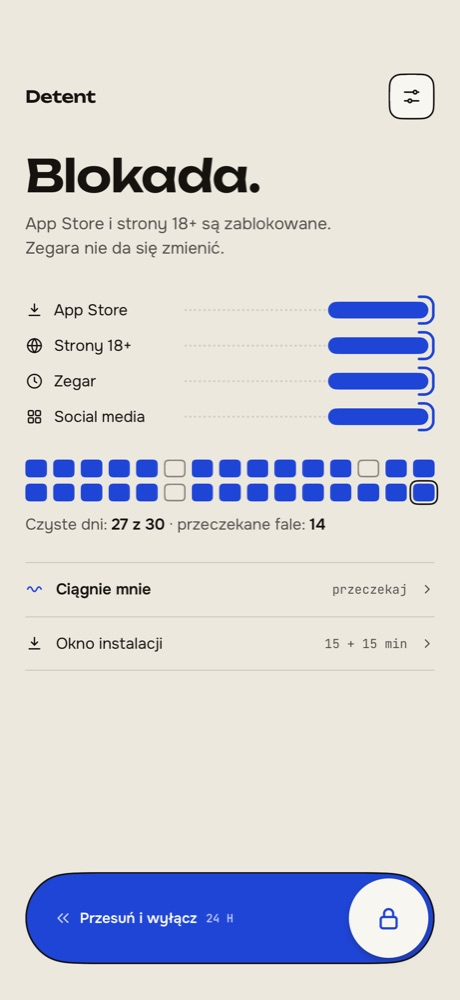
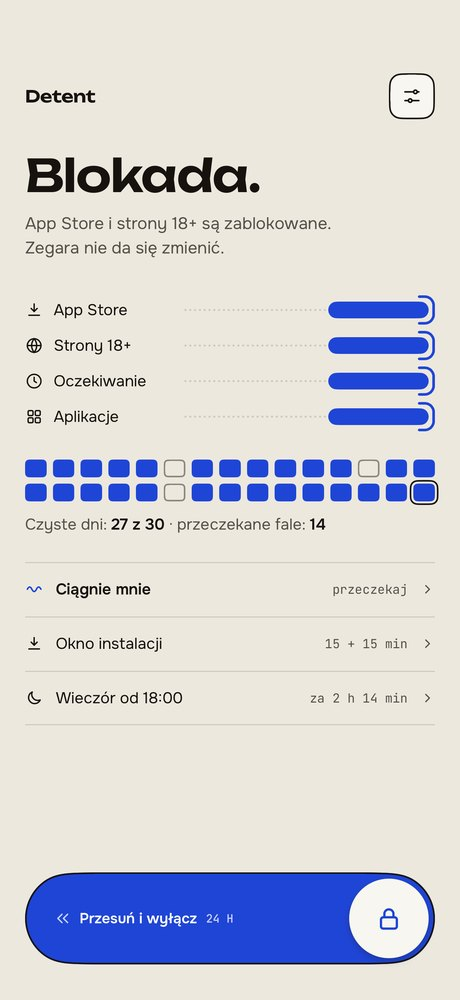
Show 2048 in place of the sliding puzzle, and the app's current screens
The urge task list and its live phone show 2048 (the home card a row of
four, the features phone the app's own board), and every screen image is
re-taken from the app as it now is: the renamed locks, the evening row,
the new turn-off and back door screens.

diff --git a/assets/detent.js b/assets/detent.js
@@ -379,20 +379,93 @@
   addEventListener("scroll", syncStory, { passive: true });
   addEventListener("resize", () => { cur = -1; syncStory(); });
 
+  /* ---------- 2048: tiles that slide together and merge, as the app draws them ----------
+     Every new tile is a 32; each doubling steps from the lowest tile's colour toward cobalt, and
+     from 1024 the number turns white. `host` holds one empty cell per square (the grid) and
+     gets the tiles; `rows` is 1 for the cards' row of four, 4 for the app's board. */
+  const SHARE = [0, .14, .28, .42, .56, .85, 1];
+  const rgb = h => [1, 3, 5].map(i => parseInt(h.slice(i, i + 2), 16));
+  const mixHex = (a, b, k) => { const A = rgb(a), B = rgb(b); return `rgb(${A.map((v, i) => Math.round(v + (B[i] - v) * k)).join(",")})`; };
+  const step2048 = v => Math.min(6, Math.max(0, Math.round(Math.log2(v / 32))));
+  function merge2048(host, o) {
+    const N = o.rows * 4, SLIDE = reduce ? 0 : 460;
+    let cells = [], moves = 0, turn = 0, busy = false;
+    const at = (el, i) => (el.style.transform = `translate(calc(${i % 4} * (100% + var(--g))), calc(${i / 4 | 0} * (100% + var(--g))))`);
+    const paint = (el, v) => { el.textContent = v; el.dataset.d = String(v).length; el.style.backgroundColor = mixHex(o.base, "#1F45D6", SHARE[step2048(v)]); el.style.color = step2048(v) >= 5 ? "#FFFFFF" : "#16130F"; };
+    const bump = (el, c) => { el.classList.remove(c); void el.offsetWidth; el.classList.add(c); };
+    const add = (v, i, born) => { const el = document.createElement("i"); paint(el, v); at(el, i); host.appendChild(el); cells[i] = { v, el }; if (born) bump(el, "born"); };
+    const highest = () => Math.max(0, ...cells.filter(Boolean).map(c => c.v));
+    const report = () => o.onMove && o.onMove(moves, highest());
+    function deal(born) {
+      $$(host, "i").forEach(el => el.remove());
+      cells = Array(N).fill(null); moves = o.moves || 0;
+      o.start.forEach((v, i) => v && add(v, i, born)); report();
+    }
+    // each line's cells, from the end the tiles slide toward
+    const across = d => d === "right" || d === "left";
+    const lines = d => [...Array(across(d) ? o.rows : 4)].map((_, k) => {
+      const l = across(d) ? [0, 1, 2, 3].map(c => k * 4 + c) : [...Array(o.rows)].map((_, r) => r * 4 + k);
+      return d === "right" || d === "down" ? l.reverse() : l;
+    });
+    // slide every tile as far as it goes; equal neighbours merge once, from the far end
+    function plan(d) {
+      const placed = [], merges = []; let moved = false;
+      lines(d).forEach(line => {
+        const out = [];
+        line.forEach(i => {
+          const c = cells[i]; if (!c) return;
+          const top = out[out.length - 1];
+          if (top && top.v === c.v && !top.m) { top.m = true; merges.push([top, c]); moved = true; return; }
+          const to = line[out.length]; if (to !== i) moved = true;
+          out.push({ v: c.v, el: c.el, m: false, to });
+        });
+        placed.push(...out);
+      });
+      return { placed, merges, moved };
+    }
+    function tick() {
+      if (busy) return;
+      const dirs = typeof o.dirs === "function" ? o.dirs(turn++) : o.dirs;
+      const p = highest() >= 2048 ? null : dirs.map(plan).find(x => x.moved);
+      busy = true;
+      if (!p) { // nothing moves: fade out and start again
+        cells.forEach(c => c && (c.el.style.opacity = 0));
+        setTimeout(() => { deal(true); busy = false; }, reduce ? 0 : 320); return;
+      }
+      p.placed.forEach(c => at(c.el, c.to));
+      p.merges.forEach(([keep, gone]) => at(gone.el, keep.to));
+      setTimeout(() => {
+        cells = Array(N).fill(null);
+        p.placed.forEach(c => (cells[c.to] = { v: c.v, el: c.el }));
+        p.merges.forEach(([keep, gone]) => { gone.el.remove(); const c = cells[keep.to]; c.v *= 2; paint(c.el, c.v); bump(c.el, "pop"); });
+        const free = cells.map((c, i) => (c ? -1 : i)).filter(i => i >= 0);
+        if (free.length) add(32, o.spawn(free), true);
+        moves++; report(); busy = false;
+      }, SLIDE);
+    }
+    deal(false);
+    return { tick, deal: () => { busy = false; deal(false); } };
+  }
+
   /* ---------- the seven tasks ---------- */
-  const TASKS = [["Breathe", "2 min"], ["Phone down", "3 min"], ["Follow the dot", "2 min"], ["Walk", "200 steps"], ["Puzzle", "3 min"], ["Nose push-ups", "20 reps"], ["Retype your letter", "1 min"]];
+  const TASKS = [["Breathe", "2 min"], ["Phone down", "3 min"], ["Follow the dot", "2 min"], ["Walk", "200 steps"], ["2048", "2 min"], ["Nose push-ups", "20 reps"], ["Retype your letter", "1 min"]];
   const stageHTML = {
     "Breathe": `<div class="a-breathe"></div><span class="a-breathe-l"></span>`,
     "Phone down": `<div class="a-down-box"><p class="a-down-t"><span data-down>3:00</span><small>face down, then it counts</small></p><span class="a-table"></span><span class="a-down"></span></div>`,
     "Follow the dot": `<svg class="a-dot-path" viewBox="0 0 180 120"><path d="M 30 60 C 30 20, 90 20, 90 60 C 90 100, 150 100, 150 60 C 150 20, 90 20, 90 60 C 90 100, 30 100, 30 60 Z" fill="none" stroke="#CFC9BC" stroke-width="1.5" stroke-dasharray="3 5"/></svg><div class="a-dot"></div>`,
     "Walk": `<div class="a-walk"><span data-steps>0</span><small>of 200 steps</small></div><div class="a-walk-bar"><i></i></div>`,
-    "Puzzle": `<div class="a-puz"><i>1</i><i>2</i><i>3</i><i>4</i><i class="mv">5</i><i class="gap"></i><i>7</i><i>8</i><i>6</i></div>`,
+    "2048": `<div class="a-2048"><b></b><b></b><b></b><b></b></div>`,
     "Nose push-ups": `<div class="a-push"><div class="ring"></div><div class="n" data-push>0</div></div>`,
     "Retype your letter": `<div class="a-letter"><span class="cnt"><b data-typed-n>0</b>/ 43</span><p class="paper"><span class="done" data-type></span><span class="caret"></span><span class="rest" data-rest-txt></span></p></div>`
   };
   const cardHTML = TASKS.map(([n, v]) => `<div class="card"><div class="stage">${stageHTML[n]}</div><div class="t"><b>${n}</b><span>${v}</span></div></div>`).join("")
     + `<div class="card more"><p>None of them unlocks anything.</p><span>They help the wave pass, and each one counts as an urge ridden out.</span></div>`;
   $$("[data-cards]").forEach(c => (c.innerHTML = cardHTML));
+  // the 2048 card: a row of four that slides right; each new 32 takes the leftmost free cell
+  $$("[data-cards] .a-2048").forEach(row => {
+    const game = merge2048(row, { rows: 1, base: "#D9D3C6", start: [0, 32, 32, 64], dirs: ["right"], spawn: free => free[0] });
+    setInterval(game.tick, 1300);
+  });
   let tick = 0;
   if ($("[data-cards]")) setInterval(() => {
     tick++;
@@ -509,22 +582,14 @@
     addEventListener("resize", sizeLive); sizeLive();
     let cur = 0, t0 = performance.now(), raf = 0;
     const q = s_ => $(root, s_);
-    // puzzle board
-    const grid = q("[data-pgrid]"), SLOT = 110;
-    const tiles = [1, 2, 3, 4, 5, 7, 8, 6].map(n => { const t = document.createElement("div"); t.className = "ptile"; t.textContent = n; grid.appendChild(t); return t; });
-    const gap = document.createElement("div"); gap.className = "pgap"; grid.appendChild(gap);
-    let pz = [0, 1, 2, 3, 4, 5, 6, 7, -1], moves = 14, last = -1;
-    const place = (el, slot) => { el.style.left = (slot % 3) * SLOT + "px"; el.style.top = Math.floor(slot / 3) * SLOT + "px"; };
-    const pzPaint = () => { pz = [0, 1, 2, 3, 4, -1, 5, 6, 7]; pz.forEach((ti, slot) => { if (ti >= 0) place(tiles[ti], slot); else place(gap, slot); }); tiles.forEach((t, k) => t.classList.toggle("wrong", k === 7)); };
-    pzPaint();
-    let pzTimer = 0;
-    function pzStep() {
-      const g = pz.indexOf(-1), c = g % 3, r = Math.floor(g / 3);
-      const near = [c > 0 ? g - 1 : null, c < 2 ? g + 1 : null, r > 0 ? g - 3 : null, r < 2 ? g + 3 : null].filter(x => x !== null && x !== last);
-      const from = near[Math.floor(Math.random() * near.length)], ti = pz[from];
-      place(tiles[ti], g); place(gap, from); pz[g] = ti; pz[from] = -1; last = g;
-      moves += 1; q("[data-pmoves]").textContent = moves;
-    }
+    // 2048 board: the tiles keep to the bottom-right corner, sliding right or down while they can
+    const mgame = merge2048(q("[data-mgrid]"), {
+      rows: 4, base: "#ECE8DE", moves: 41, start: [0, 0, 0, 0, 0, 0, 0, 32, 0, 32, 64, 128, 32, 64, 128, 256],
+      dirs: k => (k % 2 ? ["down", "right", "left", "up"] : ["right", "down", "left", "up"]),
+      spawn: free => free[Math.floor(Math.random() * free.length)],
+      onMove: (n, top) => { q("[data-mmoves]").textContent = n === 1 ? "1 move" : `${n} moves`; q("[data-mtop]").textContent = top; }
+    });
+    let mTimer = 0;
     // walk path
     const wpath = q("[data-wpath]"), wdot = q("[data-wdot]"), wlen = wpath.getTotalLength();
     // letter
@@ -563,8 +628,6 @@
         const L = wlen * n / 200; wpath.setAttribute("stroke-dasharray", `${L} 2000`);
         const pt = wpath.getPointAtLength(L); wdot.setAttribute("cx", pt.x); wdot.setAttribute("cy", pt.y);
         q("[data-wleft]").textContent = n >= 200 ? "done" : `≈ ${Math.max(1, Math.ceil((200 - n) / 100))} min left`;
-      } else if (cur === 4) {
-        q("[data-ptime]").textContent = mmss(Math.max(0, 108 - t));
       } else if (cur === 5) { // a push-up every 1.4 s
         const n = Math.min(20, 7 + Math.floor(t / 1.4));
         q("[data-pn]").textContent = n; q("[data-pn2]").textContent = n;
@@ -580,10 +643,10 @@
     live.urge = n => {
       cur = n; t0 = performance.now();
       screens.forEach((el, k) => el.classList.toggle("on", k === n));
-      clearInterval(pzTimer); if (n === 4) { moves = 14; q("[data-pmoves]").textContent = moves; pzPaint(); pzTimer = setInterval(pzStep, 1200); }
+      clearInterval(mTimer); if (n === 4) { mgame.deal(); mTimer = setInterval(mgame.tick, 1300); }
       cancelAnimationFrame(raf); raf = requestAnimationFrame(frame);
     };
-    live.urgeStop = () => { cancelAnimationFrame(raf); clearInterval(pzTimer); };
+    live.urgeStop = () => { cancelAnimationFrame(raf); clearInterval(mTimer); };
   }
 
   /* ---------- Features: evening mode, an afternoon running into the night ----------

diff --git a/features.html b/features.html
@@ -17,7 +17,7 @@
 <link rel="preconnect" href="https://fonts.googleapis.com">
 <link rel="preconnect" href="https://fonts.gstatic.com" crossorigin>
 <link rel="stylesheet" href="https://fonts.googleapis.com/css2?family=Unbounded:wght@400;500;600;700&family=Onest:wght@400;500;600&family=JetBrains+Mono:wght@400;500&display=swap">
-<link rel="stylesheet" href="assets/detent.css?v=a478a43e">
+<link rel="stylesheet" href="assets/detent.css?v=3745a086">
 </head>
 <body data-page="features">
 <template id="dev-tpl">
@@ -70,7 +70,7 @@
 
   <section class="fx-sec cob" id="fx-urge"><div class="wrap fx-row">
     <div class="txt"><span class="k">I have an urge</span><h2>Seven tasks for the worst minutes.</h2><p>None of them unlocks anything. They keep your hands busy while the wave passes, and every one counts as an urge ridden out.</p>
-      <div class="opts" data-opts="urge"><button class="opt" type="button" aria-pressed="true" data-i="0"><span class="l">Breathe</span><span class="v">2 min</span><span class="run"></span></button><button class="opt" type="button" aria-pressed="false" data-i="1"><span class="l">Phone down</span><span class="v">3 min</span><span class="run"></span></button><button class="opt" type="button" aria-pressed="false" data-i="2"><span class="l">Follow the dot</span><span class="v">2 min</span><span class="run"></span></button><button class="opt" type="button" aria-pressed="false" data-i="3"><span class="l">Walk</span><span class="v">200 steps</span><span class="run"></span></button><button class="opt" type="button" aria-pressed="false" data-i="4"><span class="l">Puzzle</span><span class="v">3 min</span><span class="run"></span></button><button class="opt" type="button" aria-pressed="false" data-i="5"><span class="l">Nose push-ups</span><span class="v">20 reps</span><span class="run"></span></button><button class="opt" type="button" aria-pressed="false" data-i="6"><span class="l">Retype your letter</span><span class="v">1 min</span><span class="run"></span></button></div></div>
+      <div class="opts" data-opts="urge"><button class="opt" type="button" aria-pressed="true" data-i="0"><span class="l">Breathe</span><span class="v">2 min</span><span class="run"></span></button><button class="opt" type="button" aria-pressed="false" data-i="1"><span class="l">Phone down</span><span class="v">3 min</span><span class="run"></span></button><button class="opt" type="button" aria-pressed="false" data-i="2"><span class="l">Follow the dot</span><span class="v">2 min</span><span class="run"></span></button><button class="opt" type="button" aria-pressed="false" data-i="3"><span class="l">Walk</span><span class="v">200 steps</span><span class="run"></span></button><button class="opt" type="button" aria-pressed="false" data-i="4"><span class="l">2048</span><span class="v">2 min</span><span class="run"></span></button><button class="opt" type="button" aria-pressed="false" data-i="5"><span class="l">Nose push-ups</span><span class="v">20 reps</span><span class="run"></span></button><button class="opt" type="button" aria-pressed="false" data-i="6"><span class="l">Retype your letter</span><span class="v">1 min</span><span class="run"></span></button></div></div>
     <div class="fx-dev"><div class="devwrap" data-livewrap><div class="dev"><span class="island"></span><div class="ms" data-live>
       <div class="ts on" data-t="0"><div class="bar"><span class="back"><svg width="20" height="20" viewBox="0 0 24 24"><path d="M15 6l-6 6 6 6"/></svg></span><span class="mid">Breathe · 2 min</span></div>
         <div class="bbox"><div class="bsq" data-bsq>4</div></div><div class="bword" data-bword>Inhale</div>
@@ -90,9 +90,9 @@
         <div class="wcount"><b data-wn>0</b><span>/ 200 steps</span></div>
         <svg class="wsnake" width="342" height="240" viewBox="0 0 342 240" aria-hidden="true"><text x="308" y="8" text-anchor="end" font-family="JetBrains Mono, monospace" font-size="12" fill="#55504A">50</text><text x="34" y="72" font-family="JetBrains Mono, monospace" font-size="12" fill="#55504A">100</text><text x="308" y="136" text-anchor="end" font-family="JetBrains Mono, monospace" font-size="12" fill="#55504A">150</text><text x="34" y="200" font-family="JetBrains Mono, monospace" font-size="12" fill="#55504A">200</text><path d="M32 24 H310 A32 32 0 0 1 310 88 H32 A32 32 0 0 0 32 152 H310 A32 32 0 0 1 310 216 H32" fill="none" stroke="#D9D3C6" stroke-width="16" stroke-linecap="round"/><path data-wpath d="M32 24 H310 A32 32 0 0 1 310 88 H32 A32 32 0 0 0 32 152 H310 A32 32 0 0 1 310 216 H32" fill="none" stroke="#1F45D6" stroke-width="16" stroke-linecap="round" stroke-dasharray="0 2000"/><circle data-wdot cx="32" cy="24" r="10" fill="#F8F6F0" stroke="#1F45D6" stroke-width="4"/></svg>
         <p class="note" style="margin-top:22px">Your phone counts the steps. Go anywhere — just away from where the urge hit.</p><p class="stop">Stop</p></div>
-      <div class="ts" data-t="4"><div class="bar"><span class="back"><svg width="20" height="20" viewBox="0 0 24 24"><path d="M15 6l-6 6 6 6"/></svg></span><span class="m" data-ptime>1:48</span></div><h3 class="h30">Slide them<br>in order.</h3>
-        <div class="prow"><span><b>2</b> solved</span><span><span data-pmoves>14</span> moves</span></div>
-        <div class="pboard"><div class="pgrid" data-pgrid></div></div><p class="stop">Stop</p></div>
+      <div class="ts" data-t="4"><div class="bar"><span class="back"><svg width="20" height="20" viewBox="0 0 24 24"><path d="M15 6l-6 6 6 6"/></svg></span></div><h3 class="h30">Make<br>2048.</h3>
+        <div class="mrow"><span>Highest tile <b data-mtop>256</b></span><span data-mmoves>41 moves</span></div>
+        <div class="mboard"><div class="mgrid" data-mgrid><b></b><b></b><b></b><b></b><b></b><b></b><b></b><b></b><b></b><b></b><b></b><b></b><b></b><b></b><b></b><b></b></div></div><p class="stop">Stop</p></div>
       <div class="ts push" data-t="5"><div class="bar"><span class="back"><svg width="20" height="20" viewBox="0 0 24 24"><path d="M15 6l-6 6 6 6"/></svg></span><span class="m" data-pleft>13 to go</span></div>
         <div class="parea"><div class="num"><b data-pn>7</b><span>of 20</span></div><div class="fill" data-pfill></div><div class="num over" data-pover><b data-pn2>7</b><span>of 20</span></div></div><p class="stop">Stop</p></div>
       <div class="ts" data-t="6"><div class="bar"><span class="back"><svg width="20" height="20" viewBox="0 0 24 24"><path d="M15 6l-6 6 6 6"/></svg></span></div>
@@ -152,6 +152,6 @@
     </div>
   </section>
 </main>
-<script src="assets/detent.js?v=8338867e"></script>
+<script src="assets/detent.js?v=63beadbb"></script>
 </body>
 </html>

diff --git a/assets/detent.css b/assets/detent.css
@@ -236,11 +236,18 @@ button.ms-row { cursor: pointer; }
 .a-walk-bar { position: absolute; left: 14%; right: 14%; bottom: 14%; height: 6px; border-radius: 3px; background: var(--off); overflow: hidden; }
 .a-walk-bar i { display: block; height: 100%; background: var(--cobalt); animation: walk 7s linear infinite; }
 @keyframes walk { from { width: 0; } to { width: 100%; } }
-.a-puz { width: 54%; aspect-ratio: 1; display: grid; grid-template-columns: repeat(3, 1fr); gap: 5%; position: relative; }
-.a-puz i { border-radius: 16%; background: var(--cobalt); color: var(--bone); display: grid; place-items: center; font: 600 12px var(--display); font-style: normal; }
-.a-puz i.gap { background: transparent; box-shadow: inset 0 0 0 1.5px var(--hairline); }
-.a-puz i.mv { animation: mv 3s ease-in-out infinite; }
-@keyframes mv { 0%, 20% { transform: translateX(0); } 45%, 75% { transform: translateX(calc(100% + 18%)); } 100% { transform: translateX(0); } }
+/* 2048: detent.js places the tiles; --g is the gap between cells */
+.a-2048, .ts .mgrid { position: relative; display: grid; grid-template-columns: repeat(4, 1fr); gap: var(--g); }
+.a-2048 > b, .ts .mgrid > b { aspect-ratio: 1; }
+.a-2048 > i, .ts .mgrid > i { position: absolute; left: 0; top: 0; width: calc((100% - 3 * var(--g)) / 4); aspect-ratio: 1; display: grid; place-items: center; font-family: var(--display); font-weight: 600; font-style: normal; line-height: 1; letter-spacing: -.02em; transition: transform .45s cubic-bezier(.3,.8,.2,1), opacity .3s ease, background-color .25s ease, color .25s ease; }
+.a-2048 > i.pop, .ts .mgrid > i.pop { animation: tPop .28s cubic-bezier(.3,1.6,.5,1); }
+.a-2048 > i.born, .ts .mgrid > i.born { animation: tBorn .3s ease-out; }
+@keyframes tPop { 0% { scale: 1; } 40% { scale: 1.16; } 100% { scale: 1; } }
+@keyframes tBorn { from { opacity: 0; scale: .6; } to { opacity: 1; scale: 1; } }
+.a-2048 { --g: 6px; width: 74%; container-type: inline-size; }
+.a-2048 > i { border-radius: 17%; font-size: 8cqw; }
+.a-2048 > i[data-d="3"] { font-size: 7cqw; }
+.a-2048 > i[data-d="4"] { font-size: 6cqw; }
 .a-push { display: grid; justify-items: center; gap: 10px; }
 .a-push .n { font: 500 clamp(34px, 4vw, 48px)/1 var(--mono); }
 .a-push .ring { width: 54px; height: 54px; border-radius: 50%; background: var(--cobalt); animation: push 1.6s ease-in-out infinite; }
@@ -379,14 +386,15 @@ button.ms-row { cursor: pointer; }
 .ts .wcount b { font: 600 84px/1 var(--display); letter-spacing: -0.02em; }
 .ts .wcount span { font: 400 16px var(--mono); color: #55504A; }
 .ts .wsnake { margin-top: 30px; display: block; overflow: visible; }
-/* puzzle */
-.ts .prow { margin-top: 18px; display: flex; justify-content: space-between; font: 400 15px var(--mono); color: #55504A; }
-.ts .prow b { color: #16130F; font-weight: 400; }
-.ts .pboard { margin-top: 16px; background: #16130F; border-radius: 20px; padding: 12px; }
-.ts .pgrid { position: relative; height: 318px; }
-.ts .ptile { position: absolute; width: 98px; height: 98px; border-radius: 14px; background: #1F45D6; display: grid; place-items: center; font: 600 40px/1 var(--display); color: #FFFFFF; transition: left .45s cubic-bezier(.4,0,.2,1), top .45s cubic-bezier(.4,0,.2,1), background-color .3s, color .3s; }
-.ts .ptile.wrong { background: #ECE8DE; color: #16130F; }
-.ts .pgap { position: absolute; width: 98px; height: 98px; border-radius: 14px; border: 1.5px dashed #8C867C; box-sizing: border-box; transition: left .45s, top .45s; }
+/* 2048 */
+.ts .mrow { margin-top: 18px; display: flex; justify-content: space-between; font: 400 15px var(--mono); color: #55504A; }
+.ts .mrow b { color: #16130F; font-weight: 400; }
+.ts .mboard { margin-top: 16px; background: #16130F; border-radius: 20px; padding: 12px; }
+.ts .mgrid { --g: 8px; }
+.ts .mgrid > b { border-radius: 10px; background: rgba(236, 232, 222, .1); }
+.ts .mgrid > i { border-radius: 10px; font-size: 32px; }
+.ts .mgrid > i[data-d="3"] { font-size: 23px; }
+.ts .mgrid > i[data-d="4"] { font-size: 17px; }
 /* push-ups */
 .ts.push { padding-left: 0; padding-right: 0; }
 .ts.push .bar { padding: 0 24px; }

diff --git a/index.html b/index.html
@@ -17,7 +17,7 @@
 <link rel="preconnect" href="https://fonts.googleapis.com">
 <link rel="preconnect" href="https://fonts.gstatic.com" crossorigin>
 <link rel="stylesheet" href="https://fonts.googleapis.com/css2?family=Unbounded:wght@400;500;600;700&family=Onest:wght@400;500;600&family=JetBrains+Mono:wght@400;500&display=swap">
-<link rel="stylesheet" href="assets/detent.css?v=a478a43e">
+<link rel="stylesheet" href="assets/detent.css?v=3745a086">
 </head>
 <body data-page="home">
 <template id="dev-tpl">
@@ -121,6 +121,6 @@
     <div class="wrap"><div class="foot"><span>© 2026 Nikita Storchai</span><span><a href="features.html">Features</a> · <a href="privacy.html">Privacy</a> · <a href="support.html">Support</a></span></div></div>
   </section>
 </main>
-<script src="assets/detent.js?v=8338867e"></script>
+<script src="assets/detent.js?v=63beadbb"></script>
 </body>
 </html>
